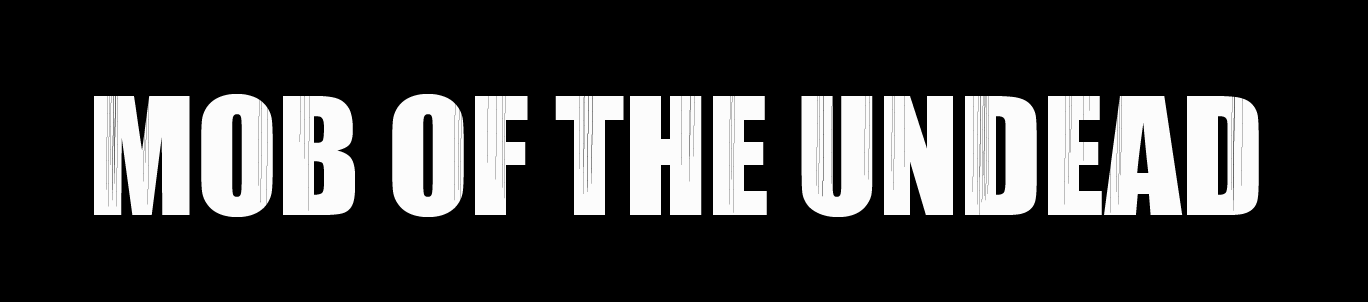
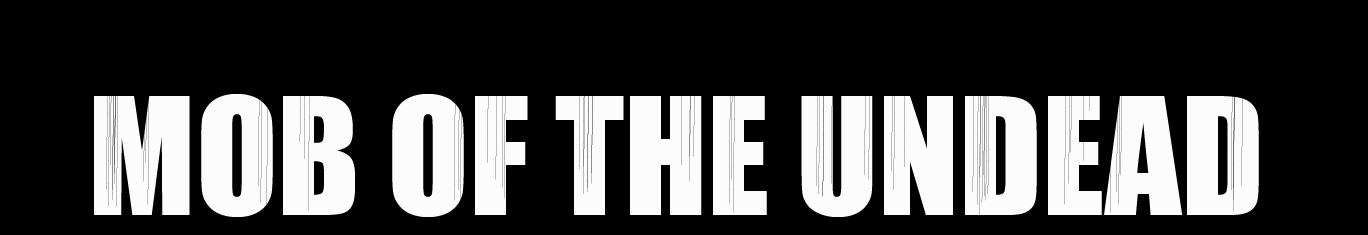
added responsiveness to start menu for different screen sizes

Changed region(s): [[0.0614, 0.2979, 0.9211, 0.9234], [0.5219, 0.5064, 0.5833, 0.566]]

diff --git a/annaP.cpp b/annaP.cpp
@@ -54,17 +54,16 @@ void startMenu(Rect r, int y, int x, int img_x, int img_y,
 	unsigned int startMenu, unsigned int title)
 {
 	
-	int eyeLeft[2] = {10, 10};
-	int eyeRight[2] = {-10, 10};
-	int leftLocation[2] = {50, 30};
-	int rightLocation[2] = {-50, 30};
-	
-	img_y = 0 + img_x;
-	
-	displayImage(img_x / 4, img_y / 16, 0, 270, title);
-	displayImage(img_y / 8, img_y / 6, 0, 20, startMenu);
+	int eyeLeft[2] = {img_x / 100, img_y / 50};
+	int eyeRight[2] = {-img_x / 100, img_y/50};
+	int leftLocation[2] = {img_x - (img_x - img_x / 23), 
+		img_y - (img_y - img_y / 25)};
+	int rightLocation[2] = {(img_x - img_x / 25) - img_x, 
+		img_y - (img_y - img_y / 25)};
 
-	fireCircles(4, 0, 0);
+	displayImage(img_x / 8, img_y / 4 + img_y / 20, 0, img_y / 40, startMenu);
+	displayImage(img_x / 4, img_y / 10, 0, img_y /3 + img_y / 12, title);
+	
 	movingEyes(eyeLeft, leftLocation);
 	movingEyes(eyeRight, rightLocation);
 
